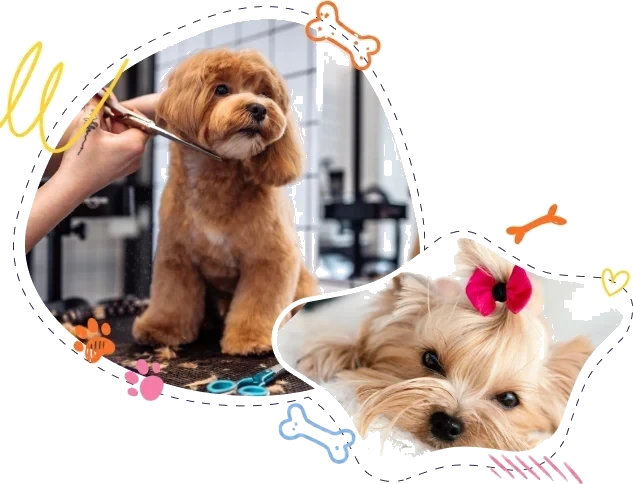
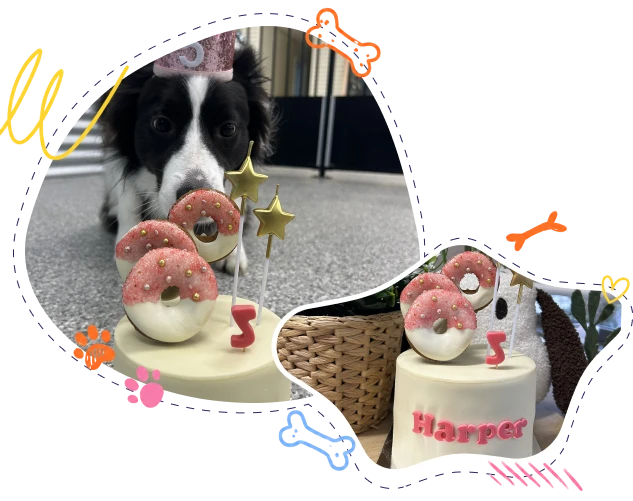
Update Dog Birthday Parties and Puppy Playgroup intro photos
Client supplied new real photos for both pages: a birthday donut-cake
collage for Dog Birthday Parties (replacing the old placeholder at the
same filename), and a puppies-playing collage for Puppy Playgroup
(previously reusing Dog Daycare's intro image as a placeholder — now
has its own dedicated service-puppy-intro.webp).

diff --git a/website/views.py b/website/views.py
@@ -159,7 +159,7 @@ SERVICE_DETAIL_CONTENT = {
         "hero_heading_text": "Puppy Playgroup",
         "hero_body": "Little paws. Big first experiences.",
         "hero_photo": "service-puppy-hero.webp",
-        "intro_image": "service-daycare-intro.webp",
+        "intro_image": "service-puppy-intro.webp",
         "intro_heading_line1": "Little Paws.",
         "intro_heading_highlight": "Big First Experiences",
         "intro_subheading": "Socialisation, tailored to your puppy",
